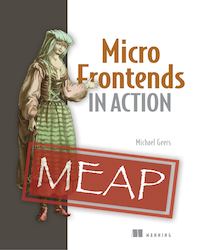
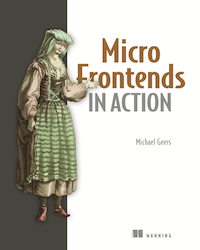
📕 the book is released

diff --git a/_layouts/default.html b/_layouts/default.html
@@ -92,18 +92,30 @@
           </div>
           <div class="book">
             <div class="book__inner">
-              <h2>🚜 The Book</h2>
-              <a href="https://www.manning.com/books/micro-frontends-in-action?a_aid=mfia&a_bid=5f09fdeb">
-                <img src="/ressources/images/micro-frontends-in-action-book-200.png" srcset="/ressources/images/micro-frontends-in-action-book-200.png 1x, /ressources/images/micro-frontends-in-action-book-400.png 2x" alt="book cover Micro Frontends in Action">
-                <span>
-                    <strong>Micro Frontends in Action</strong>
-                    available in Manning Early Access Program (MEAP)
-                </span>
-              </a>
+              <h2>The Book 🚜</h2>
+              <div class="book__details">
+                <a href="https://www.manning.com/books/micro-frontends-in-action?a_aid=mfia&a_bid=5f09fdeb">
+                  <img src="/ressources/images/micro-frontends-in-action-book-200.png" srcset="/ressources/images/micro-frontends-in-action-book-200.png 1x, /ressources/images/micro-frontends-in-action-book-400.png 2x" alt="book cover Micro Frontends in Action">
+                </a>
+                <div class="book__text">
+                  <strong>Micro Frontends in Action</strong>
+                  <p>find the interactive examples at <a href="https://the-tractor.store/">the-tractor.store</a>.</p>
+                  <p>buy it as print or ebook
+                    from <a href="https://www.manning.com/books/micro-frontends-in-action?a_aid=mfia&a_bid=5f09fdeb">Manning Publications</a>, <a href="https://amzn.to/3mmULsY">Amazon</a> or your <a href="https://en.wikipedia.org/wiki/Special:BookSources?isbn=1617296872" class="favorite-link">favorite book store</a>.
+                    <small class="favorite-note hidden">💚 Support your local bookseller!<br>The ISBN is <a href="https://en.wikipedia.org/wiki/Special:BookSources?isbn=1617296872">1617296872</a>.<br>Every print book comes with a free code for the kindle, ebook, PDF and online version.</small>
+                  </p>
+                </div>
+              </div>
             </div>
           </div>
         </aside>
       </div>
     </div>
+    <script>
+      document.querySelector('.favorite-link').addEventListener('click', function(e) {
+        e.preventDefault();
+        var note = document.querySelector('.favorite-note').classList.toggle('hidden')
+      });
+    </script>
   </body>
 </html>

diff --git a/assets/css/style.scss b/assets/css/style.scss
@@ -100,7 +100,7 @@ aside#sidebar {
 
 aside#sidebar h2 {
   margin-top: 0;
-  text-align: center;
+  text-align: left;
 }
 
 aside#sidebar > * {
@@ -140,17 +140,33 @@ aside#sidebar .book__inner {
   top: 1em;
   bottom: 1em;
   display: block;
-  text-align: center;
+  text-align: left;
 }
 
 aside#sidebar .book img {
-  margin: .5em auto;
+  margin: 0.75em 0;
   padding: 0;
   border: 1px solid #4F4A44;
   box-sizing: border-box;
   display: block;
   width: 200px;
   height: 250px;
+}
+
+aside#sidebar .book p {
+  margin: 0.75em 0;
+}
+
+aside#sidebar .book small {
+  opacity: 0.9;
+  display: block;
+  transition: opacity 250ms ease-in;
+  font-size: 0.9em;
+  margin: 0.75em 0;
+}
+
+aside#sidebar .book .hidden {
+  opacity: 0;
 }
 
 
@@ -176,27 +192,19 @@ aside#sidebar .book img {
   }
 
   aside#sidebar .book {
-    text-align: left;
     height: auto;
-    max-width: 400px;
+    position: relative;
   }
 
-  aside#sidebar .book__inner {
-    text-align: left;
-  }
-
-  aside#sidebar .book__inner a {
+  aside#sidebar .book__details {
     display: flex;
-  }
-
-  aside#sidebar .book__inner .claim {
-    display: none;
   }
 
   aside#sidebar .book__inner img {
     margin: 0 1em 0.5em 0;
     width: 160px;
-    height: 200px;
+    height: auto;
+    max-width: 33vw;
   }
 }
 

diff --git a/index.md b/index.md
@@ -327,14 +327,14 @@ So use this technique wisely and try to get user feedback.
 
 ## Navigating Between Pages
 
-__to be continued soon...__
+__to be continued soon ... (I promise)__
 
 watch the [Github Repo](https://github.com/neuland/micro-frontends) to get notified
 
 
 
 ## Additional Resources
-- [Book: Micro Frontends in Action](https://www.manning.com/books/micro-frontends-in-action?a_aid=mfia&a_bid=5f09fdeb) Written by me. Currently in Mannings Early Access Programm (MEAP)
+- [Book: Micro Frontends in Action](https://www.manning.com/books/micro-frontends-in-action?a_aid=mfia&a_bid=5f09fdeb) Written by me.
 - [Talk: Micro Frontends - MicroCPH, Copenhagen 2019](https://www.youtube.com/watch?v=wCHYILvM7kU) ([Slides](https://noti.st/naltatis/zQb2m5/micro-frontends-the-nitty-gritty-details-or-frontend-backend-happyend)) The Nitty Gritty Details or Frontend, Backend, 🌈 Happyend
 - [Talk: Micro Frontends - Web Rebels, Oslo 2018](https://www.youtube.com/watch?v=dTW7eJsIHDg) ([Slides](https://noti.st/naltatis/HxcUfZ/micro-frontends-think-smaller-avoid-the-monolith-love-the-backend)) Think Smaller, Avoid the Monolith, ❤the Backend
 - [Slides: Micro Frontends - JSUnconf.eu 2017](https://speakerdeck.com/naltatis/micro-frontends-building-a-modern-webapp-with-multiple-teams)
@@ -353,7 +353,7 @@ watch the [Github Repo](https://github.com/neuland/micro-frontends) to get notif
 
 ---
 
-## Things to come ...
+## Things to come ... (very soon)
 
 - Use Cases
   - Navigating between pages

diff --git a/README.md b/README.md
@@ -16,7 +16,7 @@ So feel free to contribute by submitting issues or pull requests.
 
 The MIT License
 
-Copyright (C) 2017-2019 [neuland Büro für Informatik](http://www.neuland-bfi.de/), Bremen, Germany
+Copyright (C) 2017-2020 [neuland Büro für Informatik](http://www.neuland-bfi.de/), Bremen, Germany
 
 Permission is hereby granted, free of charge, to any person obtaining a copy of this software and associated documentation files (the "Software"), to deal in the Software without restriction, including without limitation the rights to use, copy, modify, merge, publish, distribute, sublicense, and/or sell copies of the Software, and to permit persons to whom the Software is furnished to do so, subject to the following conditions:
 
